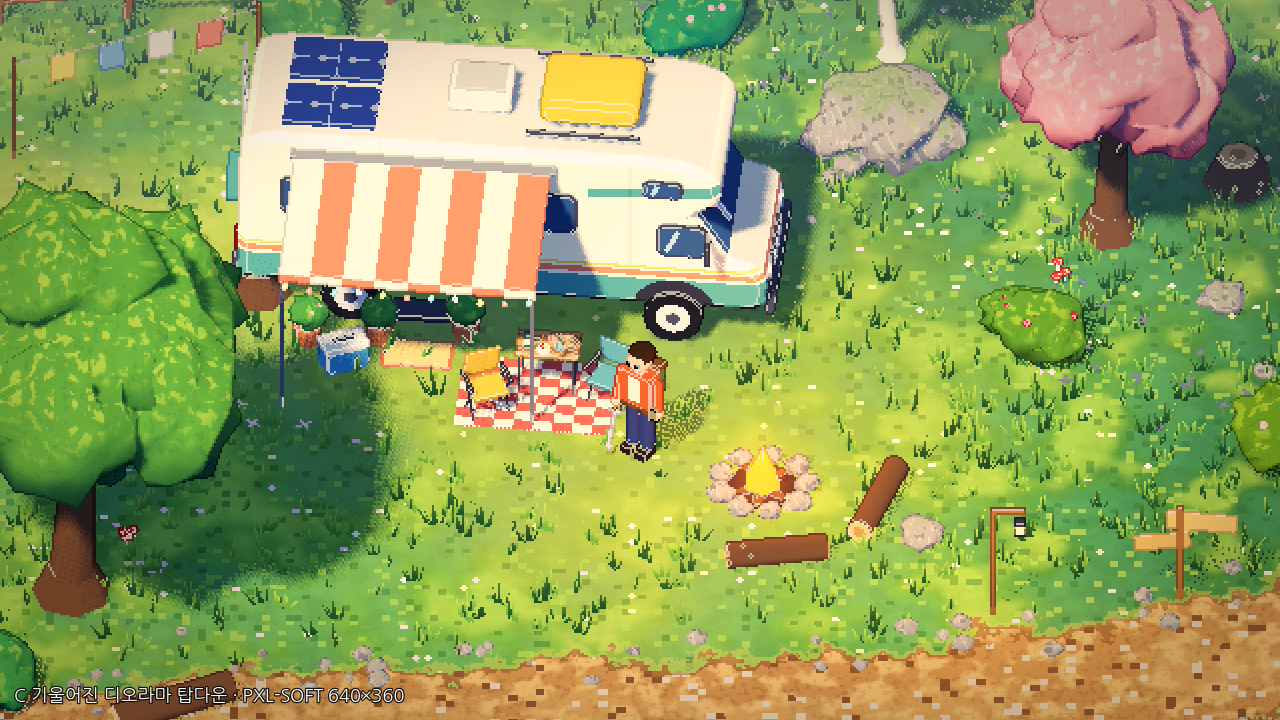
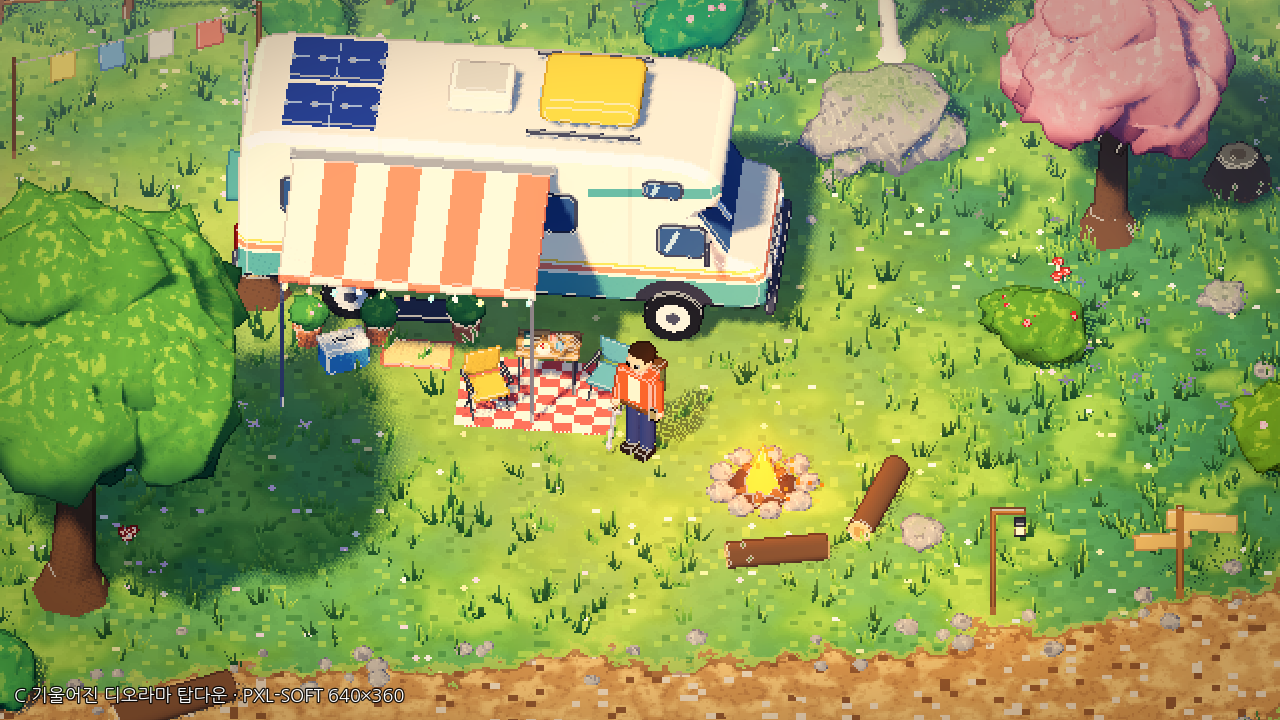
Add Dead Cells-like pixel look as camera style D (default)
- Grade: value banding (cel steps), violet shadow push, stronger
  saturation/contrast/vignette
- Outline pass: rim light on light-facing silhouette texels, very dark
  violet outline elsewhere
- Palette: warm low key light, violet ambient, pink-violet depth haze,
  stronger bloom on emissives
- Campfire embers and floating mote particles
- Porch light moved below the awning (fixes dark disc on the canvas)
- Captures and notes for C vs D

Claude-Session: https://claude.ai/code/session_01K53dp3QXZsLd6yNF78ES5J

diff --git a/notes/VISUAL_DIRECTION.md b/notes/VISUAL_DIRECTION.md
@@ -1,13 +1,35 @@
-# 비주얼 방향 수정 — 디오라마형 3D 픽셀풍 (카메라 A/B/C 비교)
+# 비주얼 방향 수정 — 디오라마형 3D 픽셀풍 (카메라 A/B/C/D 비교)
 
 > 목표: "블록형 저해상도 테스트맵(Minecraft-like)"에서 벗어나 **풍부한 디오라마형 3D 픽셀풍**으로 갈 수 있는지 검증.
 > 대상: 야외 캠핑카 씬, 낮 기준. 검증 환경은 이전과 같습니다(Godot 4.7.2, 소프트웨어 렌더러 llvmpipe, **실제 GPU 미검증**).
 
 ![요약](../captures/visual_direction/00_summary_before_A_B_C.png)
 
+## 추가: D 데드셀풍 픽셀 (현재 기본값)
+
+![C vs D](../captures/visual_direction/01_summary_C_vs_D_deadcells.png)
+
+데드셀(Dead Cells)의 화면 특징을 탑다운 3D 픽셀 렌더에 옮긴 스타일입니다. 카메라는 C와 같고(40°, 10m) 표현만 다릅니다.
+
+| 데드셀 특징 | D에서의 구현 |
+|---|---|
+| 끊어지는 셀 명암 | 툰 셰이딩 + 색보정 단계에서 밝기를 7단계로 양자화(색상은 유지, 명도만 계단) |
+| 보라/남색 그림자 vs 주황·분홍 하이라이트 | 보라빛 환경광, 따뜻한 낮은 각도의 햇빛, 어두운 영역을 보라(0.16, 0.09, 0.28) 쪽으로 밀기, 스플릿 토닝 |
+| 아주 어두운 외곽선 + 밝은 림라이트 | 외곽선 패스에서 실루엣 텍셀 중 오른쪽·위를 향한 면은 밝은 림(1.0, 0.82, 0.62), 나머지는 짙은 보라 외곽선 |
+| 강한 채도·대비 | 채도 1.22, 대비 1.12, 비네트 강화 |
+| 발광체 블룸 | glow 문턱값을 낮추고(0.9) 강도를 올림, 모닥불·줄전구 발광 강화 |
+| 떠다니는 불씨·먼지 | 모닥불 불씨 파티클, 플레이어 주변 반딧불/먼지 파티클(1텍셀 크기) |
+| 보라빛 원경 | 분홍·보라 깊이 안개 |
+
+**판단:** 밤 장면(`style_D_night_PXL-MID.png`)에서 데드셀 느낌이 가장 강합니다. 어두운 보라 배경 위에 모닥불·헤드라이트·줄전구가 빛나고 림라이트가 실루엣을 잡아 줍니다.
+낮 장면은 C보다 극적이지만, 햇빛이 주황으로 치우치면 잔디가 탁해집니다. 그래서 키 라이트를 연한 살구색으로 조정했습니다.
+
+**한계:** 림라이트 방향이 화면 기준으로 고정되어 있습니다(실제 광원 방향과 무관). 큰 수관에서는 림이 윤곽을 따라 길게 그려져 선화처럼 보일 수 있습니다.
+명도 양자화는 저해상도에서 그라데이션을 계단처럼 만들어 의도한 효과를 내지만, 지형 노이즈와 겹치면 얼룩처럼 보이는 구간도 있습니다. 데드셀 원작의 손으로 그린 노멀맵·캐릭터 애니메이션 품질은 이 프로토타입 범위 밖입니다.
+
 ## 실행
 
-F5 → 야외 씬. **`V`로 A → B → C 전환**(시작은 C), `O` 외곽선 ON/OFF, `1~4` 해상도(기본 **PXL-MID 427×240 ×3**).
+F5 → 야외 씬. **`V`로 A → B → C → D 전환**(시작은 D), `O` 외곽선 ON/OFF, `1~4` 해상도(기본 **PXL-MID 427×240 ×3**).
 비교 캡처 재생성: `Godot --path . -- --tour=styles --capture-dir=<폴더>`
 
 ## 무엇을 바꿨나 (모든 버전 공통 — 씬 자체)

diff --git a/README.md b/README.md
@@ -4,7 +4,7 @@
 완성 게임이 아니라 **고정 탑다운 카메라 + 3D 월드의 픽셀화 렌더**가 이 게임의 아트 스타일로 쓸 만한지를
 직접 걸어 다니며 비교하기 위한 테스트 씬입니다. 기획 기준 문서는 [`docs/`](docs/)에 있습니다.
 
-![디오라마 탑다운 C](captures/visual_direction/style_C_PXL-MID.png)
+![데드셀풍 D · 밤](captures/visual_direction/style_D_night_PXL-MID.png)
 
 > **비주얼 방향 수정(디오라마형 3D 픽셀풍)과 카메라 A/B/C 비교 결과:** [`notes/VISUAL_DIRECTION.md`](notes/VISUAL_DIRECTION.md)
 
@@ -45,7 +45,7 @@ git clone -b claude/gallant-edison-84bkyp https://github.com/HomilBBANG/rg_Hilli
 | `WASD` / 방향키 | 이동 (`Shift` 달리기 — P0에서는 SP 소모 없음) |
 | 마우스 왼쪽 클릭 | 기본 공격 모션 1회 (마우스 방향, 누르고 있어도 반복 안 함) |
 | `F` | 캠핑카 외부 라이트 ON/OFF (캠핑카 7.5m 이내에서만) |
-| `V` | **카메라 스타일 A(기존 기능형) → B(개선된 탑다운) → C(기울어진 디오라마)**. 시작은 C |
+| `V` | **카메라 스타일 A(기존 기능형) → B(개선된 탑다운) → C(기울어진 디오라마) → D(데드셀풍 픽셀)**. 시작은 D |
 | `O` | 픽셀 외곽선 ON/OFF (B/C, Forward+ 전용) |
 | `1` / `2` / `3` / `4` | **PXL-COARSE 320×180** / **PXL-MID 427×240(기본)** / **PXL-SOFT 640×360** / **3D-NATIVE 1280×720(픽셀화 OFF)** |
 | `M` | 픽셀화 파이프라인 전환: M1 SubViewport 확대 ↔ M2 3D 해상도 스케일링(nearest) |
